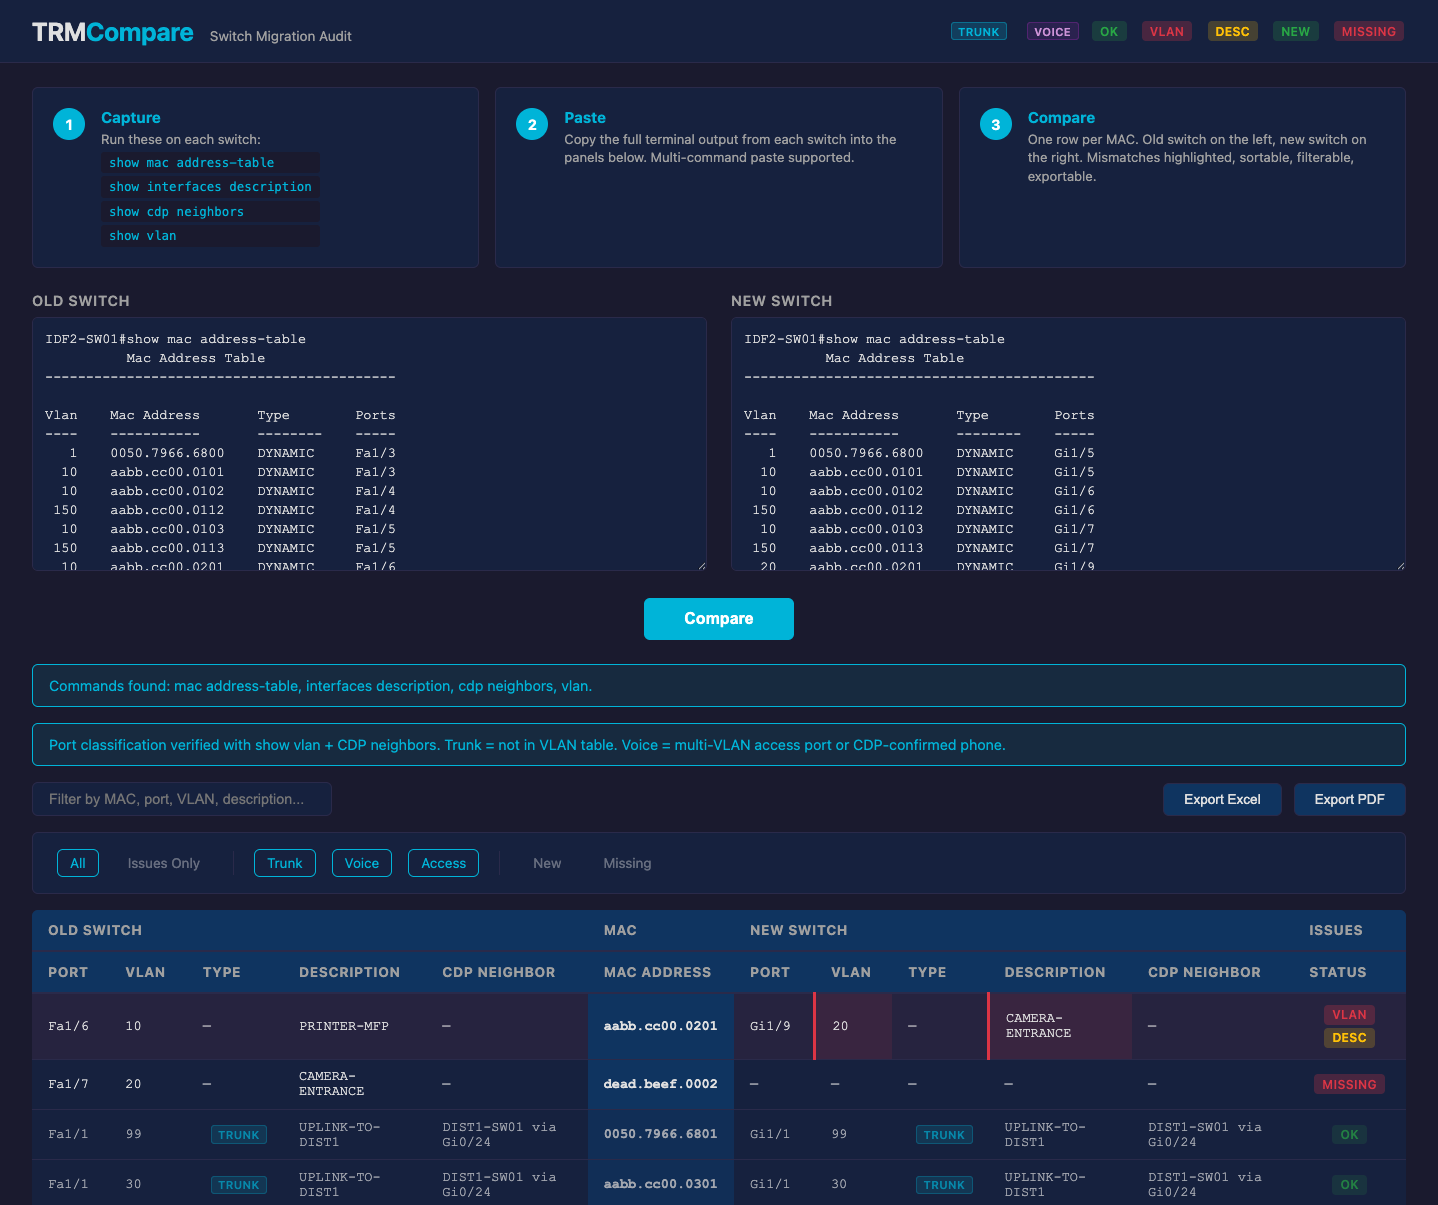
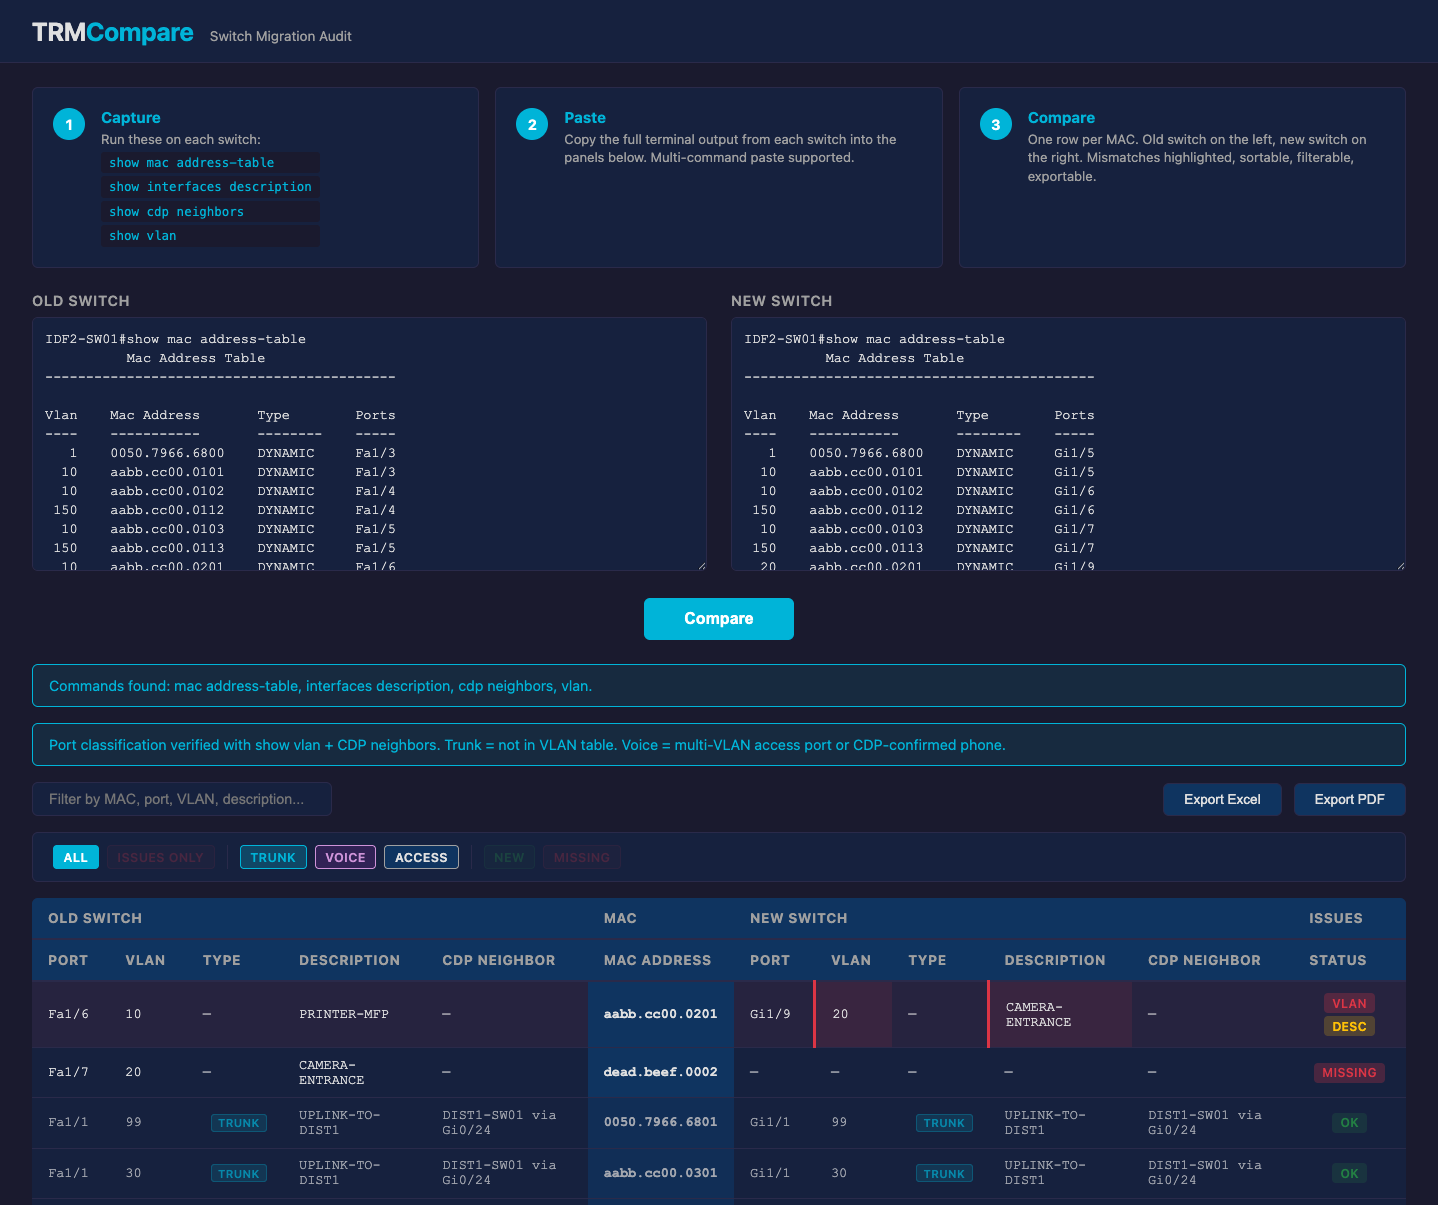
update: colored filter pills, clean header, remove dead legend
- Remove header badge legend (redundant with filter pills)
- Filter pills now use badge colors: Trunk=cyan, Voice=purple, New=green,
  Missing=red, Issues Only=red, Access=neutral. Active=bright, inactive=dimmed.
- Rename CSS classes: audit-filter-pill → filter-pill with per-type variants
- Clean header: just brand + tagline, no visual noise
- Fresh screenshots

diff --git a/css/style.css b/css/style.css
@@ -27,9 +27,6 @@ header h1 { font-size: 1.6rem; color: var(--text-primary); font-weight: 700; let
 .brand-accent { color: var(--accent); }
 .header-tagline { font-size: 0.85rem; color: var(--text-secondary); font-weight: 400; }
 
-/* Color legend */
-.legend { display: flex; gap: 0.75rem; font-size: 0.85rem; flex-wrap: wrap; }
-.legend-item { display: flex; align-items: center; gap: 0.4rem; }
 
 /* How it works — step cards */
 .how-it-works { display: grid; grid-template-columns: 1fr 1fr 1fr; gap: 1rem; margin-bottom: 1.5rem; }
@@ -62,8 +59,8 @@ main { padding: 1.5rem 2rem; }
 .message.info { background: rgba(0, 180, 216, 0.1); color: var(--accent); border: 1px solid var(--accent); }
 
 /* Filter bar */
-.summary-bar { background: var(--bg-secondary); padding: 1rem 1.5rem; border-radius: 6px; margin-bottom: 1rem; display: flex; gap: 1rem; font-size: 0.95rem; border: 1px solid var(--border); align-items: center; flex-wrap: wrap; }
-.summary-divider { width: 1px; height: 1.5rem; background: var(--border); margin: 0 0.25rem; }
+.filter-bar { background: var(--bg-secondary); padding: 0.75rem 1.25rem; border-radius: 6px; margin-bottom: 1rem; display: flex; gap: 0.5rem; font-size: 0.85rem; border: 1px solid var(--border); align-items: center; flex-wrap: wrap; }
+.filter-divider { width: 1px; height: 1.5rem; background: var(--border); margin: 0 0.25rem; }
 
 /* Controls row */
 .controls-row { display: flex; justify-content: space-between; align-items: center; margin-bottom: 1rem; gap: 1rem; }
@@ -102,11 +99,24 @@ main { padding: 1.5rem 2rem; }
 .audit-group-mac { background: var(--bg-card); color: var(--text-primary); border-bottom: 2px solid var(--border); }
 .audit-group-issues { background: var(--bg-card); color: var(--text-secondary); border-bottom: 2px solid var(--border); }
 
-/* Audit filter pills */
-.audit-filter-pill { display: flex; align-items: center; gap: 0.5rem; cursor: pointer; padding: 0.3rem 0.75rem; border-radius: 6px; border: 1px solid transparent; transition: opacity 0.2s, border-color 0.2s; user-select: none; font-size: 0.85rem; color: var(--text-primary); }
-.audit-filter-pill:hover { border-color: var(--border); }
-.audit-filter-pill.active { border-color: var(--accent); color: var(--accent); }
-.audit-filter-pill:not(.active) { opacity: 0.4; }
+/* Filter pills — colored badges that double as toggles */
+.filter-pill { display: inline-block; padding: 0.2rem 0.6rem; border-radius: 4px; font-weight: 600; font-size: 0.78rem; text-transform: uppercase; letter-spacing: 0.03em; cursor: pointer; user-select: none; transition: opacity 0.2s; border: 1px solid transparent; }
+.filter-pill:not(.active) { opacity: 0.25; }
+.filter-pill:hover { opacity: 0.8; }
+.filter-pill-all { background: var(--bg-card); color: var(--text-primary); border-color: var(--border); }
+.filter-pill-all.active { background: var(--accent); color: #fff; border-color: var(--accent); }
+.filter-pill-issues { background: rgba(220, 53, 69, 0.15); color: var(--removed-text); border-color: rgba(220, 53, 69, 0.3); }
+.filter-pill-issues.active { background: rgba(220, 53, 69, 0.3); border-color: var(--removed-text); }
+.filter-pill-trunk { background: rgba(0, 180, 216, 0.15); color: var(--accent); border-color: rgba(0, 180, 216, 0.3); }
+.filter-pill-trunk.active { background: rgba(0, 180, 216, 0.25); border-color: var(--accent); }
+.filter-pill-voice { background: rgba(156, 39, 176, 0.12); color: #ce93d8; border-color: rgba(156, 39, 176, 0.3); }
+.filter-pill-voice.active { background: rgba(156, 39, 176, 0.2); border-color: #ce93d8; }
+.filter-pill-access { background: var(--bg-card); color: var(--text-secondary); border-color: var(--border); }
+.filter-pill-access.active { background: var(--bg-card); color: var(--text-primary); border-color: var(--text-secondary); }
+.filter-pill-new { background: rgba(40, 167, 69, 0.15); color: var(--new-text); border-color: rgba(40, 167, 69, 0.3); }
+.filter-pill-new.active { background: rgba(40, 167, 69, 0.25); border-color: var(--new-text); }
+.filter-pill-missing { background: rgba(220, 53, 69, 0.15); color: var(--removed-text); border-color: rgba(220, 53, 69, 0.3); }
+.filter-pill-missing.active { background: rgba(220, 53, 69, 0.25); border-color: var(--removed-text); }
 
 /* Audit sortable headers */
 .sortable-audit { cursor: pointer; user-select: none; white-space: nowrap; }

diff --git a/index.html b/index.html
@@ -13,15 +13,6 @@
       <h1>TRM<span class="brand-accent">Compare</span></h1>
       <span class="header-tagline">Switch Migration Audit</span>
     </div>
-    <div class="legend">
-      <div class="legend-item"><span class="port-tag port-tag-trunk">Trunk</span></div>
-      <div class="legend-item"><span class="port-tag port-tag-voice">Voice</span></div>
-      <div class="legend-item"><span class="issue-badge issue-badge-ok">OK</span></div>
-      <div class="legend-item"><span class="issue-badge issue-badge-vlan">VLAN</span></div>
-      <div class="legend-item"><span class="issue-badge issue-badge-desc">Desc</span></div>
-      <div class="legend-item"><span class="issue-badge issue-badge-new">New</span></div>
-      <div class="legend-item"><span class="issue-badge issue-badge-missing">Missing</span></div>
-    </div>
   </header>
 
   <main>
@@ -86,16 +77,16 @@ IOS, IOS-XE, and NX-OS output formats."></textarea>
       </div>
 
       <div id="audit-view">
-        <div id="audit-filter-bar" class="summary-bar">
-          <div class="audit-filter-pill active" data-audit-filter="all">All</div>
-          <div class="audit-filter-pill" data-audit-filter="issues">Issues Only</div>
-          <div class="summary-divider"></div>
-          <div class="audit-filter-pill active" data-audit-filter="trunk">Trunk</div>
-          <div class="audit-filter-pill active" data-audit-filter="voice">Voice</div>
-          <div class="audit-filter-pill active" data-audit-filter="access">Access</div>
-          <div class="summary-divider"></div>
-          <div class="audit-filter-pill" data-audit-filter="new">New</div>
-          <div class="audit-filter-pill" data-audit-filter="missing">Missing</div>
+        <div id="audit-filter-bar" class="filter-bar">
+          <div class="filter-pill filter-pill-all active" data-audit-filter="all">All</div>
+          <div class="filter-pill filter-pill-issues" data-audit-filter="issues">Issues Only</div>
+          <div class="filter-divider"></div>
+          <div class="filter-pill filter-pill-trunk active" data-audit-filter="trunk">Trunk</div>
+          <div class="filter-pill filter-pill-voice active" data-audit-filter="voice">Voice</div>
+          <div class="filter-pill filter-pill-access active" data-audit-filter="access">Access</div>
+          <div class="filter-divider"></div>
+          <div class="filter-pill filter-pill-new" data-audit-filter="new">New</div>
+          <div class="filter-pill filter-pill-missing" data-audit-filter="missing">Missing</div>
         </div>
         <table id="audit-table" class="results-table audit-table">
           <thead>

diff --git a/js/app.js b/js/app.js
@@ -276,7 +276,7 @@ function applyFilters() {
 }
 
 function updatePillStyles() {
-  document.querySelectorAll('.audit-filter-pill').forEach(pill => {
+  document.querySelectorAll('.filter-pill').forEach(pill => {
     const filter = pill.dataset.auditFilter;
     if (activeFilters.has(filter)) {
       pill.classList.add('active');
@@ -437,7 +437,7 @@ document.addEventListener('DOMContentLoaded', () => {
   });
 
   // Filter pill handlers
-  document.querySelectorAll('.audit-filter-pill').forEach(pill => {
+  document.querySelectorAll('.filter-pill').forEach(pill => {
     pill.addEventListener('click', () => {
       const filter = pill.dataset.auditFilter;
 
